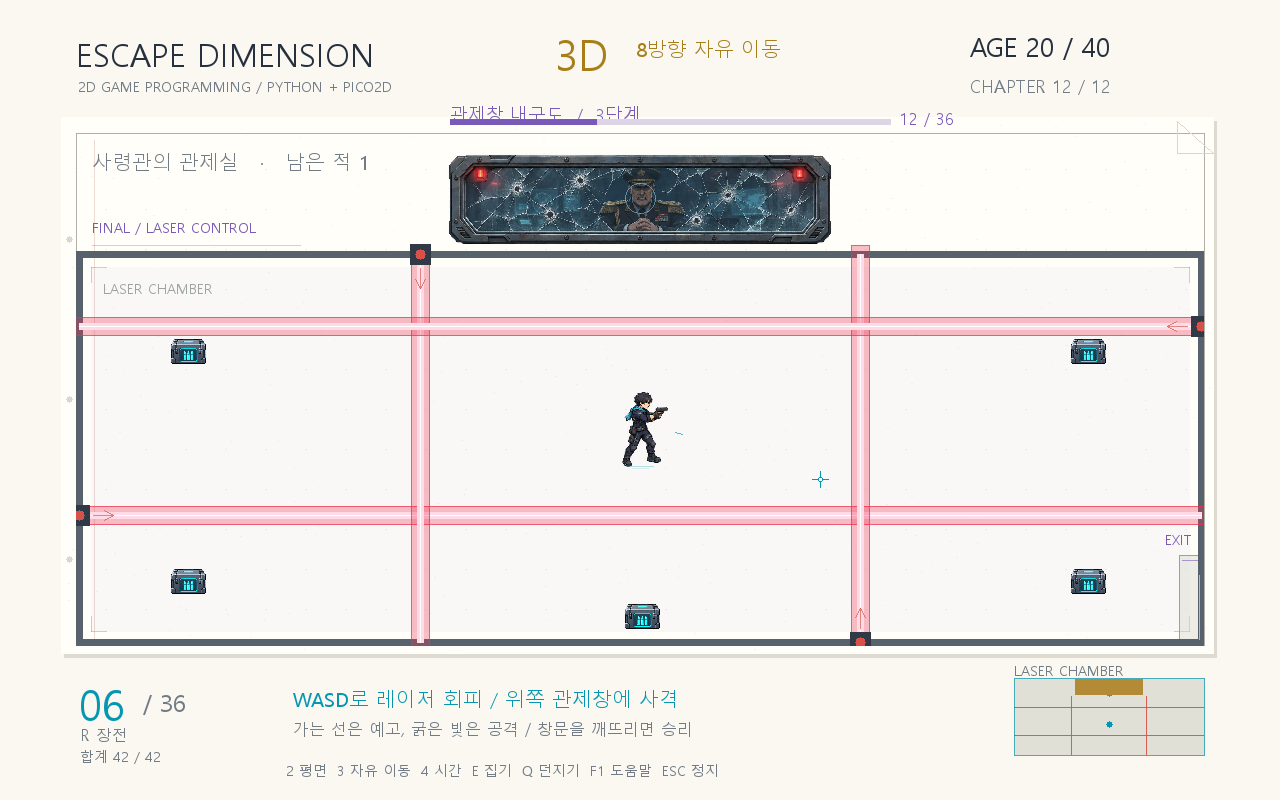
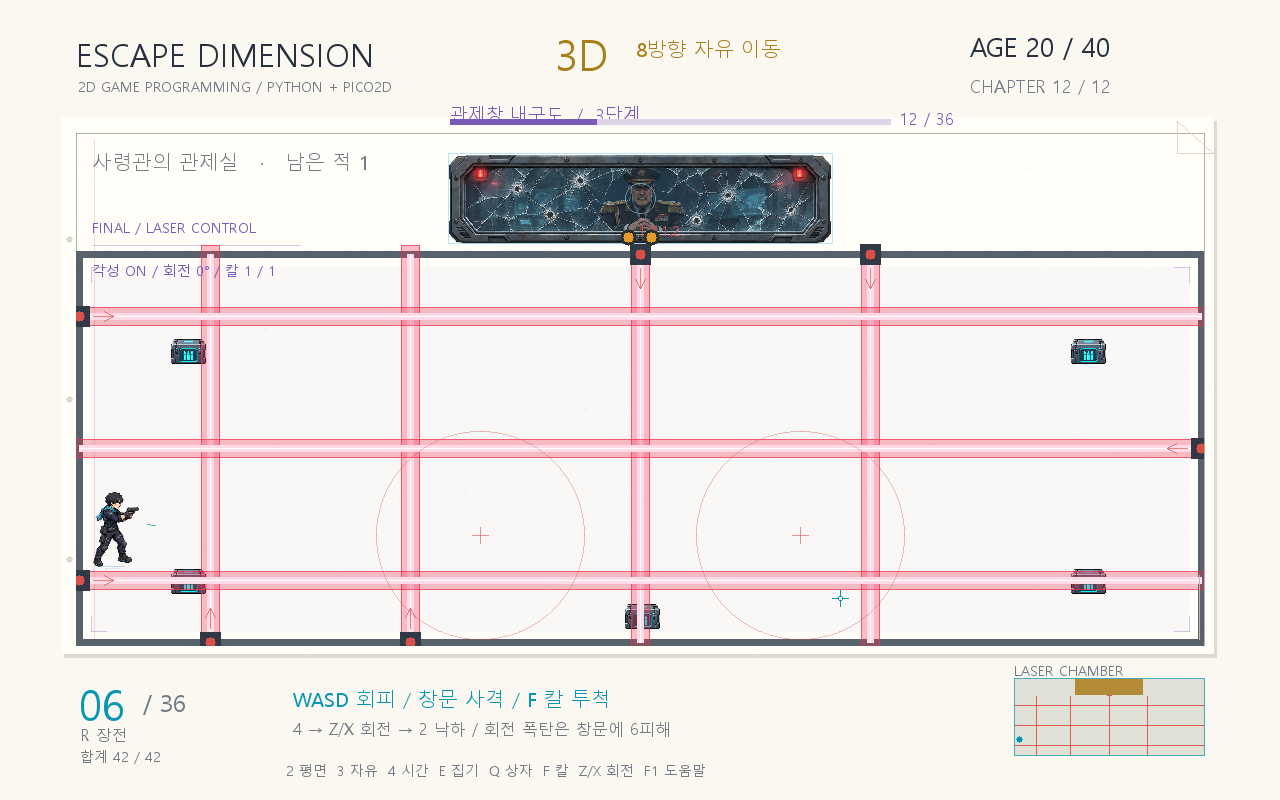
문서: 각성 조작과 낙하 전투 검증 갱신

Changed region(s): [[0.0625, 0.2812, 0.9375, 0.8125], [0.25, 0.8438, 0.5625, 0.9688], [0.7812, 0.875, 0.9375, 0.9375]]

diff --git a/README.md b/README.md
@@ -14,6 +14,8 @@
 - 2D: 좌우 이동, 낮은 점프, 중력과 상자 낙하 공격
 - 3D: 같은 화면을 바닥으로 해석하는 8방향 이동
 - 4D: 멈추면 세계 정지, 최근 4초의 과거 위치를 선택해 이동
+- 각성: 6챕터 클리어 후 4D 공간 회전과 2D 중력을 조합해 폭탄 반격
+- 낙하 무기: 상자와 소지한 칼 1자루, 실제 낙하 거리 80px 이상에서 피해
 
 모든 화면과 충돌 처리는 2D로 구현합니다. 3D·4D는 이동·중력·시간 규칙을 구분하는 게임 모드입니다.
 탄창은 6발, 예비탄은 36발로 시작하며 보유량은 합계 최대 42발입니다.
@@ -38,11 +40,23 @@
 중간보스는 벨트 급탄식 기관총을 사용하는 엘리트 군인입니다. 조준 예고가 끝나면 잠근 방향으로 연사하고 잠시 장전합니다. 체력이 절반 이하가 되면 연사가 길어집니다.
 
 최종전에서는 창 너머의 사령관이 관찰하며 왼쪽·위·오른쪽·아래에서 레이저가 발사됩니다. 가는 예고선이 먼저 나오고 굵은 빔이 켜질 때 피해를 입습니다. 카메라는 전투장 전체에 고정됩니다.
-플레이어는 레이저를 피하면서 위쪽 관제창을 총으로 쏴야 합니다. 총격이 누적되면 균열이 늘고 유리가 깨집니다. 창의 내구도가 낮아질수록 공격이 강화되며 마지막 단계에는 사방 레이저가 함께 발사됩니다. 창을 완전히 파괴하면 레이저가 정지하고 승리합니다. 유탄이나 상자로 창문 목표를 건너뛸 수 없습니다.
+플레이어는 레이저를 피하면서 위쪽 관제창을 총으로 쏴야 합니다. 총격이 누적되면 균열이 늘고 유리가 깨집니다. 창의 내구도가 낮아질수록 공격이 강화되며 마지막 단계에는 사방 레이저가 함께 발사됩니다. 창을 완전히 파괴하면 레이저와 폭탄 공격이 정지하고 승리합니다. 일반 유탄과 상자는 창에 피해를 주지 않으며, 각성으로 회전한 폭탄만 1회 폭발에 6피해를 줍니다.
 
-레이저 예고와 발사 시간도 4D에서 정지합니다. 활성 레이저에 겹치는 과거 위치로는 이동할 수 없습니다.
+레이저는 단계별 최대 3·5·7줄로 증가하며 약 0.8~0.9초의 예고 뒤 0.48초간 발사됩니다. 사령관은 1.9~2.7초 간격으로 폭탄을 던지고 마지막 단계에는 두 발씩 던집니다.
+
+레이저 예고와 발사 시간, 폭탄 궤적과 신관도 4D에서 정지합니다. 활성 레이저에 겹치는 과거 위치로는 이동할 수 없습니다.
 
 ![유탄 폭발과 장애물 파괴](docs/wall-after.png)
+
+## 각성과 낙하 무기
+
+6챕터의 적을 모두 처치하면 각성합니다. 4D에서 **Z는 왼쪽, X는 오른쪽으로 90도 회전**합니다. 한 세션 안에서 여러 번 회전할 수 있으며 기존 4D 종료 시 나이 +1 규칙을 유지합니다. 회전은 2D·3D로 바꿔도 유지되고 새 챕터와 재도전 시에는 0도로 돌아옵니다. 7~12챕터를 바로 고르면 각성이 해금된 상태로 체험합니다.
+
+회전하면 공간의 시점과 중력 기준이 바뀌며 폭탄의 궤적을 꺾을 수 있습니다. 최종전에서 폭탄이 나온 뒤 `4 → X 두 번 → 2`를 사용하면 창문이 아래에 놓이고 폭탄이 창 쪽으로 떨어집니다. 폭발 지점과 플레이어 사이에는 거리를 확보해야 합니다. 90·270도에서는 전장 전체가 보이도록 카메라가 축소되며 조준과 이동도 회전된 화면을 따릅니다.
+
+칼은 한 자루를 소지하며 **F로 조준 방향에 투척**, 가까이 가서 **E로 회수**합니다. 상자를 들고 있어도 칼 소지는 별도입니다. 상자와 칼은 빠른 수평 투척만으로 피해를 주지 않습니다. 2D 중력으로 실제 80px 이상 연속 낙하한 뒤 적에게 처음 닿아야 피해를 줍니다. 착지·집기·차원 또는 중력 변경 시 낙하 거리를 다시 측정합니다. 3D에서 적보다 높은 곳에 배치하거나 4D 회전을 활용하세요.
+
+![회전한 공간에서 폭탄으로 창문 공격](docs/gravity-bomb-glass-hit.png)
 
 ## 조작
 
@@ -53,7 +67,9 @@
 | 마우스, 왼쪽 버튼 | 조준, 발사 |
 | R | 장전, 이동 중에도 가능 |
 | 2 / 3 / 4 | 차원 모드 전환 |
-| E / Q | 가까운 상자 집기, 조준 방향으로 투척 |
+| E / Q | 가까운 상자 집기, 조준 방향으로 투척 / E는 칼 회수도 가능 |
+| F | 소지한 칼 1자루 투척 |
+| Z / X | 각성 후 4D에서 공간을 왼쪽 / 오른쪽으로 90도 회전 |
 | 휠 또는 좌우 방향키, Enter | 4D의 과거 위치 선택, 시간 이동 |
 | Enter | 시작, 방 진행, 재도전 |
 | 시작 화면의 좌우 방향키 | 시작할 챕터 선택 |
@@ -87,7 +103,8 @@ python tools/setup_runtime.py
 | [core.py](core.py) | 이동, 전투, 중력, 시간, 노화, 방 진행 |
 | [navigation.py](navigation.py) | 벽·상자 모서리를 이용하는 우회 경로 |
 | [visuals.py](visuals.py) | 방향과 모션 프레임, 상체 조준 변형 |
-| [camera.py](camera.py) | 스크롤 카메라와 화면·월드 좌표 변환 |
+| [camera.py](camera.py) | 스크롤·회전·축소 카메라와 조준 좌표 변환 |
+| [space.py](space.py) | 시점과 물리에서 공유하는 직교 회전 좌표 |
 | [levels.json](levels.json) | 방·적·상자·장애물 배치 |
 | [assets/](assets/) | 캐릭터·상자 이미지와 효과음 |
 | [tests/](tests/) | 게임 규칙 검사 |
@@ -102,7 +119,7 @@ python tools/setup_runtime.py
 .venv\Scripts\python.exe tools/verify_game.py
 ```
 
-게임 규칙과 실제 SDL 입력·렌더링을 검사합니다. `python tools/verify_campaign.py`로 12챕터·보스·벽 파괴·스크롤 조준도 확인합니다. 검사 기록은 [verification/](verification/)에 보관합니다.
+게임 규칙과 실제 SDL 입력·렌더링을 검사합니다. `python tools/verify_campaign.py`로 12챕터·보스·벽 파괴·스크롤 조준도 확인합니다. `python tools/verify_awakening.py`로 각성·회전·칼·폭탄 반격의 실제 SDL 입력도 검사합니다. 검사 기록은 [verification/](verification/)에 보관합니다.
 
 `python tools/verify_boss_fights.py`는 기관총·유리 파괴 4단계·레이저 예고와 발사를 실제 렌더러로 검사합니다. `python tools/verify_commander_clear.py`는 무적 처리 없이 이동·사격·장전만 사용하는 회피 시뮬레이션입니다.
 
@@ -118,7 +135,7 @@ GitHub 커밋 기록에도 기존 개발 커밋 50개와 후속 개발 이력을
 | 리소스 | 출처 |
 |---|---|
 | 캐릭터, 모션, 칼 적, 상자와 보급품 이미지 | OpenAI image_gen으로 제작 |
-| 메모지 공간, 조준선, 탄환과 UI | pico2d·SDL의 2D 그리기로 구현 |
+| 메모지 공간, 소지·투척 칼, 조준선, 탄환과 UI | pico2d·SDL의 2D 그리기로 구현 |
 | 효과음 18종 | 사인파·잡음과 감쇠를 조합해 직접 합성 |
 | 한글 글꼴 | 실행 PC의 Windows 맑은 고딕 사용, 글꼴 파일 미포함 |
 

diff --git a/GAME_DESIGN.md b/GAME_DESIGN.md
@@ -2,12 +2,22 @@
 
 > 메모지 같은 방에서 이동·중력·시간의 규칙을 바꾸며 적을 섬멸하는 2D 액션 슈팅 게임
 
+## 각성·공간 회전과 낙하 전투
+
+- 6챕터 전체 클리어 시 각성 해금. 이후 4D에서 Z/X로 90도씩 회전합니다. 회전 중에는 세계가 정지하고 기존 10초 사용 한도와 종료 시 +1세 규칙은 유지합니다. 각성은 다음 챕터와 재도전에도 유지됩니다.
+- 회전한 시점에서 WASD·마우스 조준을 유지하며 2D 중력은 화면 아래를 향합니다. 회전 상태는 차원 전환 후에도 유지하되 새 챕터·재도전 시 초기화합니다.
+- 최종전 레이저는 단계별 최대 3/5/7줄, 발사 주기 1.55/1.4/1.3초, 예고 0.9/0.85/0.8초, 활성 0.48초입니다. 사령관은 단계별 2.7/2.3/1.9초마다 폭탄을 던집니다. 마지막 단계에는 두 발입니다.
+- 공간 회전으로 폭탄의 궤적을 바꾸고 2D 중력으로 관제창에 떨어뜨립니다. 회전한 폭탄의 폭발은 관제창에 6피해를 주며 플레이어에게도 위험합니다. 총격 1피해와 병행할 수 있습니다.
+- 소지 칼은 1자루이며 F 투척·E 회수입니다. 상자 운반과 칼 소지는 별도입니다.
+- 상자와 칼은 속도만으로 살상하지 않습니다. 2D에서 실제 80px 이상 연속 낙하하고 적에게 처음 닿을 때 피해를 줍니다. 착지·집기·중력 변경 시 누적 거리를 지웁니다. 보스 피해는 6, 일반 적은 한 번에 처치합니다.
+- 7챕터 이후 바로 시작은 각성 체험 상태입니다. 같은 회전 변환으로 물리·조준·그리기를 처리하며 원본 맵 데이터는 바꾸지 않습니다.
+
 ## 보스전 재설계
 
 - 6챕터: 엘리트 기관총 사수가 조준 예고 뒤 한 방향으로 12발을 연사하고 장전합니다. 체력 절반 이하에서는 18발로 늘어납니다. 플레이어는 엄폐하거나 3D로 측면을 공략합니다.
 - 12챕터: 사령관은 위쪽 관제실 창 뒤에서 관찰합니다. 플레이어는 고정 시점의 전투장에서 사방 레이저를 피하며 관제창에 총격을 가합니다.
-- 관제창은 내구도 36이며 매 타격 균열과 4단계 상태로 피해를 표시합니다. 창을 깨뜨리면 모든 레이저가 정지하고 전투가 끝납니다. 유탄·상자 피해로 이 목표를 우회할 수 없습니다.
-- 레이저는 최소 1초의 예고 뒤 약 0.55초간 발사됩니다. 창의 내구도가 줄면 교차 공격이 증가하고 마지막 단계에는 사방에서 동시에 발사됩니다. 빔 사이에 피할 공간을 남깁니다.
+- 관제창은 내구도 36이며 매 타격 균열과 4단계 상태로 피해를 표시합니다. 창을 깨뜨리면 모든 레이저가 정지하고 전투가 끝납니다. 일반 유탄·상자는 관제창에 피해를 주지 않으며 각성으로 회전한 폭탄은 6피해를 줍니다.
+- 레이저는 0.8~0.9초의 예고 뒤 0.48초간 발사됩니다. 창의 내구도가 줄면 교차 공격이 증가하고 마지막 단계에는 사방에서 동시에 발사됩니다. 빔 사이에 피할 공간을 남깁니다.
 - 4D는 레이저 예고·발사 시간을 정지시키며 활성 빔에 겹치는 과거 위치는 선택할 수 없습니다. 재도전하면 창과 공격 순서를 복구합니다.
 
 ## 2026-11-22 확장 사양

diff --git a/ASSET_PROVENANCE.md b/ASSET_PROVENANCE.md
@@ -1,5 +1,7 @@
 # 이미지와 소리 출처
 
+소지·투척 칼과 회전 폭탄 표시는 기존 SDL 기본 도형으로 그립니다. 새 비트맵·외부 음원을 추가하지 않으며 각성은 기존 전환·시간 이동 효과음을 사용합니다. 회전 화면은 실제 게임 좌표를 투영한 출력입니다.
+
 ## 2026-11-22: 기관총 사수와 관제창
 
 `assets/elite_gunner.png`는 OpenAI 내장 `image_gen` 도구로 제작한 RGBA 투명 시트입니다. 4열×4행이며 앞 8칸은 8방향 대기, 뒤 8칸은 같은 순서의 기관총 발사 자세입니다. 인간 엘리트 군인의 전술복·헬멧·고글·벨트 급탄식 기관총을 표현했습니다. 최종 프롬프트는 [elite_gunner.prompt.txt](assets/elite_gunner.prompt.txt)에 있습니다.

diff --git a/CHANGELOG.md b/CHANGELOG.md
@@ -1,5 +1,12 @@
 # 변경 이력
 
+## 각성·회전·폭탄 반격·낙하 무기
+
+- 6챕터 클리어 후 4D 공간 회전, 회전 시점의 조준·이동·2D 중력을 추가했습니다.
+- 최종전 레이저를 최대 7줄로 늘리고 사령관의 폭탄 투척과 회전 폭탄의 창문 6피해를 추가했습니다.
+- 칼 1자루의 F 투척·E 회수와 상자·칼의 실제 80px 낙하 후 첫 접촉 피해 판정을 구현했습니다.
+- 회전 화면·입력·폭탄 반격·각성 유지·체크포인트와 낙하 임계값을 검사합니다.
+
 ## 기관총 중간보스·사령관 관제실
 
 - 중간보스를 인간 엘리트 군인으로 바꾸고 조준·기관총 연사·장전 대기 패턴을 구현했습니다.
